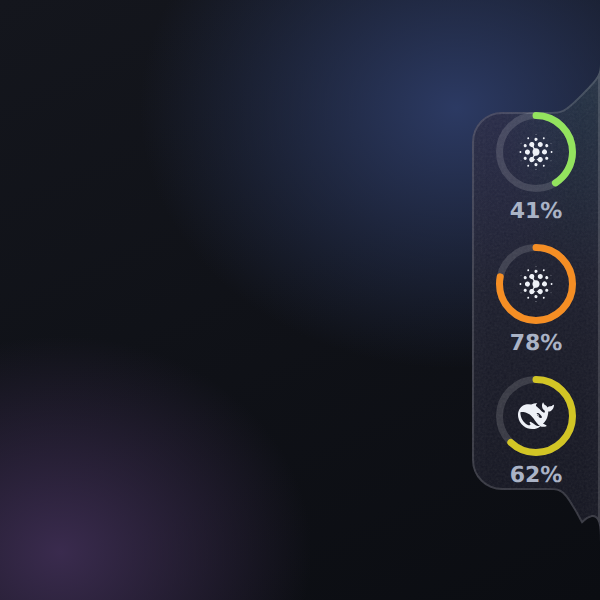
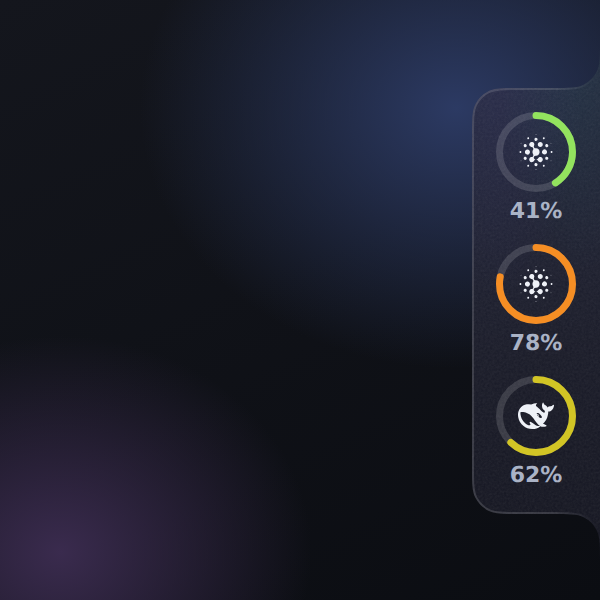
T14: 贴边收口改为「流体融合吸附」：四角同一个连续曲率圆角 + 贴边侧不描边 + 描边渐隐（用户实测反馈）
- dockPathData 重写：远端两个凸角与贴边侧上下两个反向圆角（喇叭口）是同一个 squircle 角
  （r=15、平滑度 0.6，figma corner smoothing 算法），只是转向相反 —— 曲率完全匹配
- 上一版问题：凹弧进深 26 对着 15 的远端圆角（大小不配）、身体顶边压在圆圈上、贴边侧描了一道亮线
- 描边改为不含贴边侧的开放路径，并在喇叭口里渐隐（CSS mask），化进屏幕边
- 上下留白 26 → 36（= 喇叭口高 24 + 圆圈间距 12）；#dock 去掉对不上造型的矩形阴影
- 入场动画：身体不动，反向圆角从 0 长到满（460ms ease-out quart），像液体爬出弯月面
- test/renderer.test.py 造型段按新几何重写；docs/dock-*.png 重出；README 同步；v0.8.3

diff --git a/renderer/app.js b/renderer/app.js
@@ -336,12 +336,10 @@ function syncCapsuleSize() {
    账户集合没变时**不重建**列：只更新环与数字 —— 否则状态每次推送（每秒都可能有）圆圈都会闪。 */
 const DOCK_R = 18.25;                 // 圆环半径：直径 40 − 环宽 3.5（SVG viewBox 内部单位，跟随 CSS 缩放）
 const DOCK_C = 2 * Math.PI * DOCK_R;  // 圆周长：进度弧的 dasharray
-const DOCK_RISE = 26;                 // 贴边侧凹弧的进深/升高（× dockScale），与贴边列上下留白同值：
-                                      // 凹弧从身体顶/底边升起、以**竖直切线**切进屏幕边，曲率两端归零
-                                      // （G2 曲率连续，见 dockPathData）；留白就是这条弧的形变空间
-const DOCK_RISE_M = 0.35;             // 凹弧饱满度：对角点距角的比例（越小越贴边、越大越饱满）
-const DOCK_RISE_A = 0.27;             // 进入凹弧前的平缓段长度（相对进深）
-const DOCK_CORNER = 15;               // 远离屏幕一侧的正常圆角（与 .glass 的 15px 一致，× dockScale）
+const DOCK_CORNER = 15;               // 主体圆角半径（× dockScale）：远端两角与贴边侧两处反向圆角**同一个 r**
+const DOCK_SMOOTH = 0.6;              // 连续曲率圆角的平滑度（Figma corner smoothing 同口径）：每个角沿两边
+                                      // 各占 (1 + 0.6) × r = 24 —— 也就是贴边侧喇叭口沿屏幕边升起的高度
+const DOCK_FLARE = (1 + DOCK_SMOOTH) * DOCK_CORNER;   // = 24，CSS 里 #dock 的上下留白 36 = 它 + 12 间距
 
 /** 这一列画哪些圆圈：provider 注册表序 → 每家的账户原序 → 只留启用的 */
 function dockCells(s) {
@@ -453,49 +451,64 @@ function renderDock(s) {
   syncDockSize();
 }
 
-/* ---------- 贴边造型（2026-10-08 按用户实测反馈改版）----------
-   贴边侧（右侧的 x=w / 左侧的 x=0）从 y=0 贯通到 y=h —— 整条边都贴着屏幕边；身体占
-   y ∈ [f, h-f] 全宽，上下两端各以一段凹弧「肩部」收拢：肩弧是四分之一圆，从身体的顶边 /
-   底边（y=f / y=h-f）起、flare 到贴边侧的顶 / 底边，像是被屏幕边缘「吸住」；远离屏幕的
-   一侧是正常圆角 R。第一版把贴边侧两角挖掉 1/4 圆，用户实测后否掉了它（材料不到屏幕边、
-   角上是空的）。同一个 d 既当裁剪（clip-path，让 .glass 的配色 / 噪点正好铺满这个形状）
-   又当描边（.dock-edge path），所以背景与描边完全同形。左右镜像（sweep 标志取反）。
-   所有参数（f / R）乘 dockScale —— 圆圈大小与肩弧一起缩放，形状比例不变。 */
-/** 贴边列造型（G2 曲率连续的反向圆角，用户 2026-10-08 明确要求）：
- *  贴边侧不再与屏幕边「90° 垂直拼接」——身体顶/底边从距屏幕边 e 处起，用**两段对称三次曲线**
- *  的凹弧升起、以竖直切线切进屏幕边；曲线两端与直边曲率归零、两段接合处曲率严格相等，
- *  全程无曲率跳变（G2）。贴边侧仍贯通整高（y 0→h 都是材料）。
- *  k 是「形变量」（1 = 稳定态；0.12 左右 = 刚吸附、凹弧还没长出来的入场起点，同结构可插值）。 */
+/* ---------- 贴边造型：流体融合吸附（2026-10-08 用户第三轮反馈）----------
+   目标：胶囊像液滴贴上屏幕边 —— 贴边侧整条并入屏幕物理边缘（没有描边、没有缝），外露的上下两端
+   以**反向圆角**（喇叭口）切进屏幕边；反向圆角与远端两个凸圆角是**同一个角**（同 r、同平滑度，
+   只是转向相反），所以一条轮廓上四个角的曲率完全对称匹配。
+   每个角都是「连续曲率圆角」（iOS / Figma 的 squircle 角）：直边 → 三次曲线（端点曲率 0）→ 圆弧
+   → 三次曲线 → 直边，沿两边各占 p = (1 + smooth) × r。上一版的问题：凹弧进深 26 却对着远端 15 的
+   圆角（大小不配），又把身体顶边压到留白边上（圆圈贴着顶边）；贴边侧还描了一道边（屏幕边上一条亮线）。
+   同一个 fill 既当裁剪（clip-path）又是描边的底；描边另走一条**不含贴边侧**的开放路径。 */
+
+/** 一个连续曲率圆角（figma-squircle 的 90° 角算法）：顶点 V，入射方向 u、出射方向 v（单位向量），
+ *  从 V − p·u 画到 V + p·v。凸 / 凹由 u×v 的符号自动决定（圆弧 sweep 随之翻转）。 */
+function dockCorner(V, u, v, r, sm, n) {
+  const rad = (deg) => deg * Math.PI / 180;
+  const p = (1 + sm) * r;
+  const arcDeg = 90 * (1 - sm);
+  const L = Math.sin(rad(arcDeg / 2)) * r * Math.SQRT2;          // 圆弧段沿两边各前进的距离
+  const alpha = (90 - arcDeg) / 2;
+  const p34 = r * Math.tan(rad(alpha / 2));
+  const beta = 45 * sm;
+  const c = p34 * Math.cos(rad(beta)), d = c * Math.tan(rad(beta));
+  const b = (p - L - c - d) / 3, a = 2 * b;
+  const P = (du, dv, o = V) => [o[0] + u[0] * du + v[0] * dv, o[1] + u[1] * du + v[1] * dv];
+  const S = P(-p, 0);
+  const A0 = P(a + b + c - p, d);                                // 第一段三次曲线终点 = 圆弧起点
+  const A1 = P(L, L, A0);                                        // 圆弧终点
+  const sweep = u[0] * v[1] - u[1] * v[0] > 0 ? 1 : 0;
+  const q = (pt) => `${n(pt[0])} ${n(pt[1])}`;
+  return {
+    start: S,
+    d: ` C ${q(P(a - p, 0))} ${q(P(a + b - p, 0))} ${q(A0)}`
+      + ` A ${n(r)} ${n(r)} 0 0 ${sweep} ${q(A1)}`
+      + ` C ${q(P(d, c, A1))} ${q(P(d, b + c, A1))} ${q(P(d, a + b + c, A1))}`,
+  };
+}
+
+/** 贴边列造型：返回 { fill, edge }。fill = 闭合轮廓（clip-path），edge = 去掉贴边侧那条直线的
+ *  开放路径（描边用：贴边侧与屏幕边融为一体，不能有线）。
+ *  k ∈ [0, 1] 是吸附收口的进度：身体位置不动，贴边侧两处反向圆角的 r 从 0 长到满 —— 材料像液体
+ *  一样沿屏幕边「爬」上去形成弯月面（1 = 稳定态）。 */
 function dockPathData(w, h, side, s, k = 1) {
-  const e = DOCK_RISE * s * k, R = DOCK_CORNER * s;
-  const m = e * DOCK_RISE_M, a = e * DOCK_RISE_A;
+  const R = DOCK_CORNER * s, E = DOCK_FLARE * s;                  // E：身体顶 / 底边距窗口上 / 下缘
+  const rf = Math.max(0.01, R * k);                              // 反向圆角当前半径
   const n = (v) => Math.round(v * 100) / 100;
-  if (side === 'left') {          // 贴左边：屏幕边是 x=0
-    return `M ${n(w - R)} ${n(e)}`
-      + ` H ${n(e)}`
-      + ` C ${n(e - a)} ${n(e)} ${n(2 * m)} ${n(e)} ${n(m)} ${n(e - m)}`   // 身体顶边 → 凹弧升起
-      + ` C 0 ${n(e - 2 * m)} 0 ${n(a)} 0 0`                              // 竖直切线切进屏幕边（曲率归零）
-      + ` V ${n(h)}`
-      + ` C 0 ${n(h - a)} 0 ${n(h - 2 * m)} ${n(m)} ${n(h - m)}`          // 屏幕边 → 凹弧降回身体底边
-      + ` C ${n(2 * m)} ${n(h - e)} ${n(e - a)} ${n(h - e)} ${n(e)} ${n(h - e)}`
-      + ` H ${n(w - R)}`
-      + ` A ${R} ${R} 0 0 0 ${n(w)} ${n(h - e - R)}`                      // 远端下角（镜像：sweep 翻转）
-      + ` V ${n(e + R)}`
-      + ` A ${R} ${R} 0 0 0 ${n(w - R)} ${n(e)}`                          // 远端上角（镜像：sweep 翻转）
-      + ` Z`;
-  }
-  return `M ${n(R)} ${n(e)}`      // 贴右边：屏幕边是 x=w
-    + ` H ${n(w - e)}`
-    + ` C ${n(w - e + a)} ${n(e)} ${n(w - 2 * m)} ${n(e)} ${n(w - m)} ${n(e - m)}`
-    + ` C ${n(w)} ${n(e - 2 * m)} ${n(w)} ${n(a)} ${n(w)} 0`
-    + ` V ${n(h)}`
-    + ` C ${n(w)} ${n(h - a)} ${n(w)} ${n(h - 2 * m)} ${n(w - m)} ${n(h - m)}`
-    + ` C ${n(w - 2 * m)} ${n(h - e)} ${n(w - e + a)} ${n(h - e)} ${n(w - e)} ${n(h - e)}`
-    + ` H ${n(R)}`
-    + ` A ${R} ${R} 0 0 1 0 ${n(h - e - R)}`
-    + ` V ${n(e + R)}`
-    + ` A ${R} ${R} 0 0 1 ${n(R)} ${n(e)}`
-    + ` Z`;
+  const X = (x) => side === 'left' ? w - x : x;                  // 一律按「贴右」算，贴左水平镜像
+  const pt = (x, y) => [X(x), y];
+  const dir = (dx, dy) => [side === 'left' ? -dx : dx, dy];
+  // 顺着「贴右」时的顺时针：远端上角 → 顶边 → 上喇叭口 → 贴边侧 → 下喇叭口 → 底边 → 远端下角 → 远端边
+  const tl = dockCorner(pt(0, E), dir(0, -1), dir(1, 0), R, DOCK_SMOOTH, n);
+  const tf = dockCorner(pt(w, E), dir(1, 0), dir(0, -1), rf, DOCK_SMOOTH, n);
+  const bf = dockCorner(pt(w, h - E), dir(0, -1), dir(-1, 0), rf, DOCK_SMOOTH, n);
+  const bl = dockCorner(pt(0, h - E), dir(-1, 0), dir(0, -1), R, DOCK_SMOOTH, n);
+  const q = (p) => `${n(p[0])} ${n(p[1])}`;
+  const top = `${tl.d} L ${q(tf.start)}${tf.d}`;                 // 远端上角 + 顶边 + 上喇叭口（止于屏幕边）
+  const bottom = `${bf.d} L ${q(bl.start)}${bl.d}`;              // 下喇叭口（起于屏幕边）+ 底边 + 远端下角
+  return {
+    fill: `M ${q(tl.start)}${top} L ${q(bf.start)}${bottom} Z`,  // 贴边侧直线 + 远端边由 L / Z 补上
+    edge: `M ${q(bf.start)}${bottom} L ${q(tl.start)}${top}`,
+  };
 }
 
 /** 圆圈缩放（config.dockScale）：主进程下发前已按 [0.6, 1.6] 规范化，这里再兜一层，认不出的按 1 */
@@ -524,27 +537,27 @@ function applyDockShape() {
 }
 
 /** 把一条轮廓落到裁剪与描边上（两者同形） */
-function commitDockShape(el, d) {
-  el.style.clipPath = `path("${d}")`;
+function commitDockShape(el, { fill, edge }) {
+  el.style.clipPath = `path("${fill}")`;
   const path = el.querySelector('.dock-edge path');
-  if (path) { path.setAttribute('d', d); path.style.d = `path("${d}")`; }
+  if (path) { path.setAttribute('d', edge); path.style.d = `path("${edge}")`; }
 }
 
-/** 吸附入场动画：凹弧从「还没长出来」（k=0.12）长到最终形 —— 像被屏幕边吸住、玻璃收口。
+/** 吸附入场动画：反向圆角从 0 长到满 —— 像液滴碰到屏幕边、沿边缘爬出弯月面后稳住。
  *  用 rAF 逐帧重算 k（每帧按当前实测尺寸重新生成路径，缩放/尺寸变化也跟得上）。 */
 function dockAnimateIn() {
   const el = $('#dock');
   if (!el) return;
   cancelAnimationFrame(dockAnim);
-  const t0 = performance.now(), DUR = 320;
+  const t0 = performance.now(), DUR = 460;
   const frame = (now) => {
     const k = Math.min(1, (now - t0) / DUR);
-    const ease = 1 - Math.pow(1 - k, 3);                       // ease-out：先快后慢，收口稳定
+    const ease = 1 - Math.pow(1 - k, 4);                       // ease-out quart：先「吸」一下，再慢慢铺开稳住
     const rect = el.getBoundingClientRect();
     if (rect.width && rect.height) {
       const side = (st && st.config && st.config.dockSide) === 'left' ? 'left' : 'right';
       const s = dockScaleOf(st);
-      commitDockShape(el, dockPathData(Math.round(rect.width), Math.round(rect.height), side, s, 0.12 + 0.88 * ease));
+      commitDockShape(el, dockPathData(Math.round(rect.width), Math.round(rect.height), side, s, ease));
     }
     if (k < 1) { dockAnim = requestAnimationFrame(frame); return; }
     dockAnim = 0;

diff --git a/renderer/style.css b/renderer/style.css
@@ -220,19 +220,20 @@ body.no-providers #capsule .hint-all { display: flex; }
 
 /* ============ 贴边列（dock）：每个启用的账户一个圆圈 ============
    窗口就是内容本身（贴边时主进程不留 PAD），所以这一视图下 body 不留阴影走廊。
-   造型（贴边侧的反向圆角）由渲染层按实测尺寸写 clip-path（见 app.js 的 dockPathData）：
-   同一个 path 让 .glass 的配色 / 噪点正好铺满这个形状，描边则交给 .dock-edge 的 path ——
-   clip 会把描边的外半边裁掉，正好剩 1px，直线段与凹弧同粗。 */
+   造型（流体融合吸附：贴边侧并入屏幕边 + 上下反向圆角喇叭口）由渲染层按实测尺寸写 clip-path
+   （见 app.js 的 dockPathData）：clip 让 .glass 的配色 / 噪点正好铺满这个形状；描边交给 .dock-edge
+   的开放 path（不含贴边侧）—— clip 会把描边的外半边裁掉，正好剩 1px，直边与圆角同粗。 */
 body.view-dock { padding: 0; }
 body.view-dock #dock { display: flex; }
 
 #dock {
   position: relative; flex-direction: column; align-items: center;
-  gap: calc(10px * var(--ds)); padding: calc(26px * var(--ds)) calc(12px * var(--ds));
-  /* 上下留白 26（= 渲染层 DOCK_RISE）：凹弧从身体顶/底边升起切进屏幕边的形变空间。
-     16 太挤 ——「底框离圆圈太近，看不出吸附」（用户实测反馈）。 */
+  gap: calc(10px * var(--ds)); padding: calc(36px * var(--ds)) calc(12px * var(--ds));
+  /* 上下留白 36 = 喇叭口高度 24（渲染层 DOCK_FLARE，身体顶 / 底边就在这）+ 圆圈到边 12（与左右同距）。
+     上一版留白 = 弧高，身体顶边正好压在圆圈上 ——「底框离圆圈太近」（用户实测反馈）。 */
   width: max-content; height: max-content;   /* 尺寸由内容定，渲染层实测后上报 */
   border: 0; border-radius: 0;               /* 形状全归 clip-path，避免和 border-radius 打架 */
+  box-shadow: none;                          /* 矩形盒的阴影 / 内高光对不上造型，clip 后只剩残片 */
   --ds: 1;                                   /* 圆圈缩放（config.dockScale）：这里所有尺寸都乘它 */
   --ring-track: rgba(255, 255, 255, .14);    /* 底环：半透明中性色（深色主题） */
   --ring-dim: rgba(255, 255, 255, .30);      /* 没有数 / 过期时的灰环 */
@@ -242,6 +243,10 @@ body.theme-light #dock { --ring-track: rgba(23, 28, 45, .13); --ring-dim: rgba(2
 /* 造型描边：与 .glass 的描边同一套配色（深色 rgba(255,255,255,.14) / 浅色 rgba(255,255,255,.65)） */
 #dock .dock-edge { position: absolute; inset: 0; width: 100%; height: 100%; overflow: visible; pointer-events: none; }
 #dock .dock-edge path { fill: none; stroke: rgba(255, 255, 255, .14); stroke-width: 2; }
+/* 描边在喇叭口里渐隐：离屏幕边一个喇叭口宽（24）起淡出，到屏幕边归零 —— 轮廓「化」进屏幕边，
+   而不是一条亮线戳到边上 */
+body.dock-right #dock .dock-edge { -webkit-mask-image: linear-gradient(to left, transparent 1px, #000 calc(24px * var(--ds))); }
+body.dock-left #dock .dock-edge { -webkit-mask-image: linear-gradient(to right, transparent 1px, #000 calc(24px * var(--ds))); }
 body.theme-light #dock .dock-edge path { stroke: rgba(255, 255, 255, .65); }
 
 /* 圆圈：40px 圆环 + 中心 logo + 环下百分比数字（参考 iOS 电池小组件）。

diff --git a/test/renderer.test.py b/test/renderer.test.py
@@ -1765,118 +1765,92 @@ with sync_playwright() as p:
           const bb = el.querySelector('.dock-edge path').getBBox();
           return [bb.width, bb.height, el.getBoundingClientRect().height]; }""")))
 
-    print("贴边模式（dock）· 造型（G2 曲率连续的反向圆角：贴边侧贯通整高、凹弧切进屏幕边 / 远端正常圆角）:")
-    # 几何按参数（e = 26s 凹弧进深、R = 15s 远端圆角）从**真实那条 path** 上点名：
-    # SVGPathElement.isPointInFill 直接问路径「这个点在不在形状里」（Chromium 支持）。
-    # 凹弧 = 两段对称三次曲线：与身体顶边相切处曲率归零、两段接合处曲率相等、以竖直切线切进
-    # 屏幕边（G2 曲率连续）——所以「顶边（y≈0）只剩贴边附近的一小段竖直收进」，不再与屏幕边
-    # 90° 垂直拼接；贴边侧整条 x=w 仍是材料（贯通整高）。
+    print("贴边模式（dock）· 造型（流体融合吸附：贴边侧并入屏幕边 / 上下反向圆角喇叭口 / 四角同一个连续曲率圆角）:")
+    # 几何按参数（r = 15s 圆角、平滑 0.6 → 每角沿两边各占 p = 24s，身体顶 / 底边在 y = p / h − p）
+    # 从**真实那条 path** 上点名：SVGPathElement.isPointInFill 直接问路径「这个点在不在形状里」。
+    # 裁剪（clip-path）是闭合轮廓；描边是另一条**不含贴边侧**的开放路径（贴边侧不能有线）。
     GEOM = """(s) => {
         const el = document.querySelector('#dock');
-        const path = el.querySelector('.dock-edge path');
+        const edge = el.querySelector('.dock-edge path');
         const r = el.getBoundingClientRect();
         const w = r.width, h = r.height;
         const side = document.body.classList.contains('dock-left') ? 'left' : 'right';
-        const e = 26 * s, R = 15 * s;                              // 与渲染层同一套参数（DOCK_RISE=26）
+        const p = 24 * s;                                          // 与渲染层同一套参数（DOCK_FLARE）
         const E = (d) => side === 'left' ? d : w - d;              // 距贴边侧 d 处的绝对 x
-        const inp = (x, y) => path.isPointInFill(new DOMPoint(x, y));
-        // ① 解析 d 拿竖直直线段（贴边侧那条）
-        const toks = path.getAttribute('d').match(/[A-Za-z]|-?\\d*\\.?\\d+/g) || [];
-        const NP = { M: 2, H: 1, V: 1, A: 7, C: 6, Z: 0 };
-        let i = 0, cmd = null, x = 0, y = 0, verts = [];
-        while (i < toks.length) {
-          if (/[A-Za-z]/.test(toks[i])) { cmd = toks[i].toUpperCase(); i++; if (cmd === 'Z') continue; }
-          const n = NP[cmd] || 2;
-          const v = toks.slice(i, i + n).map(Number); i += n;
-          if (cmd === 'M') { x = v[0]; y = v[1]; }
-          else if (cmd === 'H') { x = v[0]; }
-          else if (cmd === 'V') { verts.push([x, y, v[0]]); y = v[0]; }
-          else if (cmd === 'A') { x = v[5]; y = v[6]; }
-          else if (cmd === 'C') { x = v[4]; y = v[5]; }
-        }
-        const longest = verts.slice().sort((a, b) => Math.abs(b[2] - b[1]) - Math.abs(a[2] - a[1]))[0];
-        // ② 沿真路径取样：远端上角离边界多远 + 顶边（y≈0）剩哪一段 + 凹弧在 y=e/2 处的边界距离
-        const far = side === 'left' ? { x: w, y: 0 } : { x: 0, y: 0 };
-        const L = path.getTotalLength();
-        let nearFar = Infinity, topMin = Infinity, topMax = -Infinity, riseB = Infinity;
-        for (let k = 0; k <= 1600; k++) {
-          const p = path.getPointAtLength(L * k / 1600);
-          if (Math.abs(p.y - far.y) < 30) nearFar = Math.min(nearFar, Math.hypot(p.x - far.x, p.y - far.y));
-          if (p.y < 0.6) { topMin = Math.min(topMin, p.x); topMax = Math.max(topMax, p.x); }
-          const dWall = side === 'left' ? p.x : w - p.x;           // 到贴边侧边界的距离
-          if (Math.abs(p.y - e / 2) < 0.8 && dWall > 0.2 * s && dWall < 2.2 * e) riseB = Math.min(riseB, dWall);
-        }
+        const ns = 'http://www.w3.org/2000/svg';
+        const svg = document.createElementNS(ns, 'svg');
+        svg.style.cssText = 'position:absolute;left:0;top:0;width:0;height:0;overflow:visible';
+        const fill = document.createElementNS(ns, 'path');
+        const m = /^path\\("(.*)"\\)$/.exec(el.style.clipPath);
+        fill.setAttribute('d', m ? m[1] : '');
+        svg.appendChild(fill); document.body.appendChild(svg);
+        try {
+        const inp = (x, y) => fill.isPointInFill(new DOMPoint(x, y));
+        const sample = (pa, N) => { const L = pa.getTotalLength(), out = [];
+          for (let k = 0; k <= N; k++) out.push(pa.getPointAtLength(L * k / N)); return out; };
+        const fp = sample(fill, 2400), ep = sample(edge, 2400);
+        const dWall = (pt) => side === 'left' ? pt.x : w - pt.x;
+        // ① 贴边侧：闭合轮廓上贴着 x=w 的点覆盖整高；描边上一个都没有（中段）
+        const wallYs = fp.filter((pt) => dWall(pt) < 0.05).map((pt) => pt.y);
+        const edgeOnWall = ep.filter((pt) => dWall(pt) < 0.3 && pt.y > p && pt.y < h - p).length;
+        // ② 顶边（y≈0）：只剩贴边那一点（喇叭口以竖直切线切进屏幕边）
+        const top = fp.filter((pt) => pt.y < 0.6).map(dWall);
+        // ③ 四角同一个角：凸角（远端，顶点 (远端, p)）与凹角（喇叭口，顶点 (贴边, p)）的
+        //    「顶点 → 轮廓」最近距离相等（形状一样、只是转向相反）
+        const farV = { x: E(w), y: p }, wallV = { x: E(0), y: p };
+        const near = (V, pts) => Math.min(...pts.map((pt) => Math.hypot(pt.x - V.x, pt.y - V.y)));
+        const convexD = near(farV, fp.filter((pt) => pt.y < 3 * p));
+        const concaveD = near(wallV, fp.filter((pt) => pt.y < 3 * p && dWall(pt) > 0.05));
+        const ok = (x, y) => inp(x, y);
         return {
-          side, w: +w.toFixed(2), h: +h.toFixed(2), s, e: +e.toFixed(2),
-          attachX: +longest[0].toFixed(2), attachLen: +Math.abs(longest[2] - longest[1]).toFixed(2),
-          nearFar: +nearFar.toFixed(2), topMin: +topMin.toFixed(2), topMax: +topMax.toFixed(2),
-          riseB: +riseB.toFixed(2),
+          side, w: +w.toFixed(2), h: +h.toFixed(2), s, p,
+          wallMin: +Math.min(...wallYs).toFixed(2), wallMax: +Math.max(...wallYs).toFixed(2), edgeOnWall,
+          topMax: +Math.max(...top).toFixed(2), topN: top.length,
+          convexD: +convexD.toFixed(2), concaveD: +concaveD.toFixed(2),
           pts: {
-            edgeTop: inp(E(s), e / 2),                    // 贴边侧贯通区中段：(w−1, e/2) 是材料（G2 收口后在 y→0 处收成尖）
-            edgeBot: inp(E(s), h - e / 2),                // 贴边侧贯通区中下段：(w−1, h−e/2)
-            wallHugOut: inp(E(1.0 * s), 0.5 * s),         // y≈0.5：凹弧已收到贴边 1px 内 → (w−1, 0.5) 在外
-            riseIn: inp(E(riseB - 1.4 * s), e / 2),       // 离屏幕边更近 1.4px：材料
-            riseOut: inp(E(riseB + 1.4 * s), e / 2),      // 离屏幕边更远 1.4px：空区
-            aboveBody: inp(E(2 * e + 3 * s), 3 * s),      // 身体顶边上方（x 远离贴边）是空区
-            bodyTop: inp(E(2 * e + 3 * s), e + 3 * s),    // 同一 x、身体顶边下方回到材料
-            farCorner: inp(side === 'left' ? w - 2 * s : 2 * s, 2 * s),   // 远端角 (2,2) 不在形状里
+            edgeTop: ok(E(s), p * 0.75),                  // 喇叭口下段贴边 1px：材料（上段是贴墙的细尖）
+            edgeBot: ok(E(s), h - p * 0.75),
+            wallHugOut: ok(E(1.5 * s), 0.3 * s),          // 尖端：竖直切进屏幕边 → (w−1.5, 0.3) 在外
+            flareOut: ok(E(p * 0.6), p * 0.4),            // 喇叭口凹弧外侧（顶点那一侧）是空区
+            aboveBody: ok(w / 2, p - 3 * s),              // 身体顶边上方（宽度中线）是空区
+            bodyTop: ok(w / 2, p + 3 * s),                // 同一 x、身体顶边下方回到材料
+            farCorner: ok(E(w - 2 * s), p + 2 * s),       // 远端角 (2, p+2) 在凸圆角外
+            farEdge: ok(E(w - 1 * s), h / 2),             // 远端直边中段 1px 内是材料
           },
         };
+        } finally { svg.remove(); }
       }"""
+    def geom_ok(g, label):
+        t(f"{label}贴边侧整条并入屏幕边：闭合轮廓贴着 x=w 的点覆盖 y 0→h",
+          g["wallMin"] <= 1 and g["wallMax"] >= g["h"] - 1, str(g))
+        t(f"{label}贴边侧没有描边（描边路径在屏幕边中段一个点都没有）", g["edgeOnWall"] == 0, str(g))
+        t(f"{label}喇叭口以竖直切线切进屏幕边：y≈0 处只剩贴边那一点（≤1px）", g["topMax"] <= 1, str(g))
+        t(f"{label}喇叭口贴边侧有材料 / 尖端在外 / 凹弧外侧是空区",
+          g["pts"]["edgeTop"] and g["pts"]["edgeBot"] and not g["pts"]["wallHugOut"] and not g["pts"]["flareOut"],
+          str(g["pts"]))
+        t(f"{label}身体顶边在 y=p：上方空、下方实", not g["pts"]["aboveBody"] and g["pts"]["bodyTop"], str(g["pts"]))
+        t(f"{label}远端是凸圆角（(2,p+2) 在外）、远端直边是材料",
+          not g["pts"]["farCorner"] and g["pts"]["farEdge"], str(g["pts"]))
+        t(f"{label}反向圆角与远端圆角是同一个角（顶点到轮廓的距离相等，±0.3）",
+          g["convexD"] > 2 and abs(g["convexD"] - g["concaveD"]) <= 0.3, str(g))
     g = pg.evaluate(GEOM, 1)
-    # 贴边侧：整条 x=w 都是材料（贯通整高）
-    t("贴边侧（右）：直线落在窗口右边缘 x=w 上", g["side"] == "right" and abs(g["attachX"] - g["w"]) <= 1, str(g))
-    t("贴边侧直线贯通整高（y 0→h 都是材料）", abs(g["attachLen"] - g["h"]) <= 1.5, str(g))
-    t("贴边侧贯通区有材料：(w−1,e/2) 与 (w−1,h−e/2) 在形状内",
-      g["pts"]["edgeTop"] and g["pts"]["edgeBot"], str(g["pts"]))
-    # G2 收口：凹弧以竖直切线切进屏幕边 —— y=0.5 处材料只剩贴边 1px 内的一条
-    t("凹弧以竖直切线切进屏幕边（G1 端点）：y=0.5 处 (w−1, 0.5) 已在形状外",
-      not g["pts"]["wallHugOut"], str(g["pts"]))
-    # 顶边不再与屏幕边 90° 拼接：y≈0 的横向段只剩贴边附近 ≈2px
-    t("顶边（y≈0）不再与屏幕边 90° 垂直拼接：横向段只剩贴边 ≈2px（凹弧把端头收进屏边）",
-      abs(g["topMin"] - g["w"]) <= 2 and abs(g["topMax"] - g["w"]) <= 2, str(g))
-    t("凹弧在 y=e/2 处内外有别（边界从真路径上取样）",
-      g["pts"]["riseIn"] and not g["pts"]["riseOut"], str(g["pts"]))
-    t("凹弧进深 e=26：y=e/2 处边界距屏幕边在 (0, e) 之间（收腰位置合理）",
-      0.5 < g["riseB"] < g["e"], str(g))
-    t("身体顶边上方（x 远离贴边）是空区 (w−2e−3, 3)", not g["pts"]["aboveBody"], str(g["pts"]))
-    t("同一 x、身体顶边下方又回到形状里 (w−2e−3, e+3)", g["pts"]["bodyTop"], str(g["pts"]))
-    # 远端：正常的大圆角 R=15，弧心在形状里侧（距角 ≈ √(R²+(e+R)²) − R ≈ 15.9）
-    t("远端上角是正常圆角：(2,2) 在形状外", not g["pts"]["farCorner"], str(g["pts"]))
-    t("远端圆角的凸弧边界离窗口角 ≈ √(R²+(e+R)²)−R = 28.66（弧心在 (R, e+R)）",
-      abs(g["nearFar"] - 28.66) <= 1.2, str(g["nearFar"]))
+    t("贴边侧（右）：body 是 dock-right", g["side"] == "right", str(g))
+    geom_ok(g, "")
     pg.evaluate("() => { const s = window.__state; s.config.dockSide = 'left'; window.__cb(s); }")
     pg.wait_for_timeout(200)
     gl = pg.evaluate(GEOM, 1)
-    t("换到左贴：body 换 class + 贴边侧直线跑到 x=0", gl["side"] == "left" and abs(gl["attachX"]) <= 1
+    t("换到左贴：body 换 class", gl["side"] == "left"
       and pg.evaluate("document.body.classList.contains('dock-left')"), str(gl))
-    t("换到左贴：直线同样贯通整高", abs(gl["attachLen"] - gl["h"]) <= 1.5, str(gl))
-    t("换到左贴：贴边侧贯通区仍是材料（(1,e/2) / (1,h−e/2) 在形状内）",
-      gl["pts"]["edgeTop"] and gl["pts"]["edgeBot"], str(gl["pts"]))
-    t("换到左贴：凹弧同样以竖直切线切进屏幕边（镜像）", not gl["pts"]["wallHugOut"], str(gl["pts"]))
-    t("换到左贴：顶边横向段同样只剩贴边 ≈2px（不再 90° 拼接）",
-      abs(gl["topMin"]) <= 2 and abs(gl["topMax"]) <= 2, str(gl))
-    t("换到左贴：凹弧内外一致、身体上下空区镜像", gl["pts"]["riseIn"] and not gl["pts"]["riseOut"]
-      and not gl["pts"]["aboveBody"] and gl["pts"]["bodyTop"], str(gl["pts"]))
-    t("换到左贴：远端仍是正常圆角（(w−2,2) 在形状外，凸弧离角 ≈28.66）",
-      not gl["pts"]["farCorner"] and abs(gl["nearFar"] - 28.66) <= 1.2, str(gl))
+    geom_ok(gl, "换到左贴：")
 
     print("贴边模式（dock）· 造型随 dockScale 等比（0.75 复测同一套点名）:")
     pg.evaluate("() => { const s = window.__state; s.config.dockSide = 'right';"
                 " s.config.dockScale = 0.75; window.__cb(s); }")
     pg.wait_for_timeout(250)
     g75 = pg.evaluate(GEOM, 0.75)
-    t("0.75 倍：贴边直线仍在右边缘且贯通整高", g75["side"] == "right"
-      and abs(g75["attachX"] - g75["w"]) <= 1 and abs(g75["attachLen"] - g75["h"]) <= 1.5, str(g75))
-    t("0.75 倍：凹弧进深 e = 26 × 0.75 = 19.5（顶边横向段仍只剩贴边 ≈2px）", abs(g75["e"] - 19.5) <= 0.01
-      and abs(g75["topMin"] - g75["w"]) <= 2 and abs(g75["topMax"] - g75["w"]) <= 2, str(g75))
-    t("0.75 倍：各点名点随比例缩放后结论不变（角上在内 / 竖直收进 / 弧内外有别 / 身体上下有别 / 远端在圆角外）",
-      g75["pts"]["edgeTop"] and g75["pts"]["edgeBot"] and not g75["pts"]["wallHugOut"]
-      and g75["pts"]["riseIn"] and not g75["pts"]["riseOut"]
-      and not g75["pts"]["aboveBody"] and g75["pts"]["bodyTop"] and not g75["pts"]["farCorner"],
-      str(g75["pts"]))
-    t("0.75 倍：远端圆角等比（凸弧离角 ≈ 28.66 × 0.75）",
-      abs(g75["nearFar"] - 28.66 * 0.75) <= 1.2, str(g75["nearFar"]))
+    geom_ok(g75, "0.75 倍：")
+    t("0.75 倍：圆角等比（顶点到轮廓距离 = 1 倍时 × 0.75）",
+      abs(g75["convexD"] - g["convexD"] * 0.75) <= 0.3, f'{g["convexD"]} → {g75["convexD"]}')
     print("贴边模式（dock）· 圆圈大小（dockScale=0.75）落到 --ds / 盒尺寸 / 上报:")
     pg.evaluate("() => { const s = window.__state; s.config.dockScale = 1; window.__cb(s); }")   # 先回标准档取基线
     pg.wait_for_timeout(200)

diff --git a/README.md b/README.md
@@ -68,7 +68,7 @@
 
 <img src="docs/dock-dark-right.png" alt="贴边模式：深色贴右" width="240"> <img src="docs/dock-light-left.png" alt="贴边模式：浅色贴左" width="240"> <img src="docs/dock-flyout.png" alt="悬停圆圈弹出的详情卡片" width="350">
 
-<sub>贴边模式：每圈 = 一个启用账户——环色 = 百分比、中心 = 厂商 logo、环下 = 百分比数字；贴边侧的收口是 **G2 曲率连续的反向圆角**——玻璃的上下端顺滑地流进屏幕边，没有直角接缝与曲率跳变（像是被屏幕边缘吸住）。左 / 中：深色贴右、浅色贴左 · 右：悬停圆圈，详情卡片从圆圈内侧飞出。</sub>
+<sub>贴边模式：每圈 = 一个启用账户——环色 = 百分比、中心 = 厂商 logo、环下 = 百分比数字；贴边侧整条并入屏幕边，上下以**反向圆角喇叭口**流进屏幕边——与远端圆角是同一个连续曲率圆角，没有直角接缝、没有曲率跳变（像液滴被屏幕边缘吸住）。左 / 中：深色贴右、浅色贴左 · 右：悬停圆圈，详情卡片从圆圈内侧飞出。</sub>
 
 > 所有截图由 `python3 tools/shots.py` 生成：**全程假数据**（余额、消费、token、凭据尾号都是编的），不读任何真实凭据、不联网，时钟也钉在固定时刻，因此可复现。
 
@@ -93,7 +93,7 @@
 
 把挂件拖到屏幕**左 / 右边缘**松手，它就收成一列竖排的圆圈——每个**启用**账户一个：环色 = 该账户的百分比（连续渐变）、中心 = 厂商 logo、环下 = 百分比数字。
 
-**吸附收口**：贴边侧与屏幕边缘不是直角拼接——身体顶/底边用两段对称三次曲线的凹弧升起、以竖直切线切进屏幕边，曲率在两端与直边连续、中间严格相接（G2）；松手吸附的瞬间还会播一段 320ms 的收口动画（凹弧从无到有，像被吸住）。上下留白 26px 就是这条弧的形变空间。
+**吸附收口**（流体融合）：贴边侧整条并入屏幕物理边缘（不描边、没有缝）；外露的上下两端用反向圆角（喇叭口）以竖直切线切进屏幕边。四个角是**同一个**连续曲率圆角（r=15、平滑度 0.6，同 iOS / Figma 的 squircle 角：直边 → 曲率从 0 渐起的三次曲线 → 圆弧 → 三次曲线 → 直边），凸的在远端、凹的在贴边侧，曲率完全匹配；描边在喇叭口里渐隐、化进屏幕边。松手吸附的瞬间播一段 460ms 的收口动画（反向圆角从 0 长到满，像液体沿屏幕边爬出弯月面）。上下留白 36px = 喇叭口高 24 + 圆圈间距 12。
 
 **吸附规则**：
 
